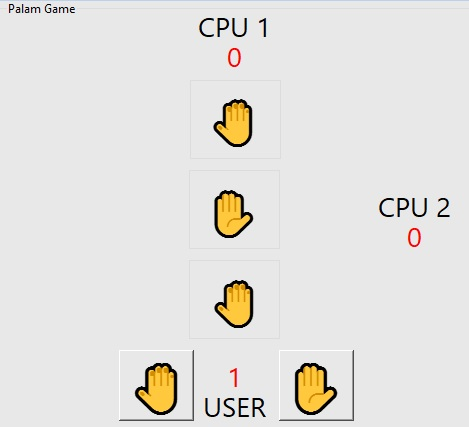
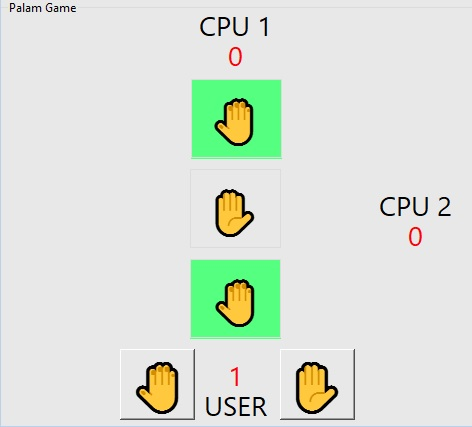
complete assignment 20

diff --git a/game/game_ui.py b/game/game_ui.py
@@ -32,6 +32,7 @@ class Ui_MainWindow(object):
         self.groupBox_2 = QGroupBox(self.groupBox)
         self.groupBox_2.setObjectName(u"groupBox_2")
         self.groupBox_2.setGeometry(QRect(191, 80, 91, 80))
+        self.groupBox_2.setStyleSheet(u"background-color: rgb(85, 255, 127)")
         self.cpu_1_select = QLabel(self.groupBox_2)
         self.cpu_1_select.setObjectName(u"cpu_1_select")
         self.cpu_1_select.setGeometry(QRect(8, 9, 71, 61))
@@ -51,6 +52,7 @@ class Ui_MainWindow(object):
         self.groupBox_4 = QGroupBox(self.groupBox)
         self.groupBox_4.setObjectName(u"groupBox_4")
         self.groupBox_4.setGeometry(QRect(190, 260, 91, 80))
+        self.groupBox_4.setStyleSheet(u"background-color: rgb(85, 255, 127)")
         self.user_select = QLabel(self.groupBox_4)
         self.user_select.setObjectName(u"user_select")
         self.user_select.setGeometry(QRect(10, 10, 71, 61))
